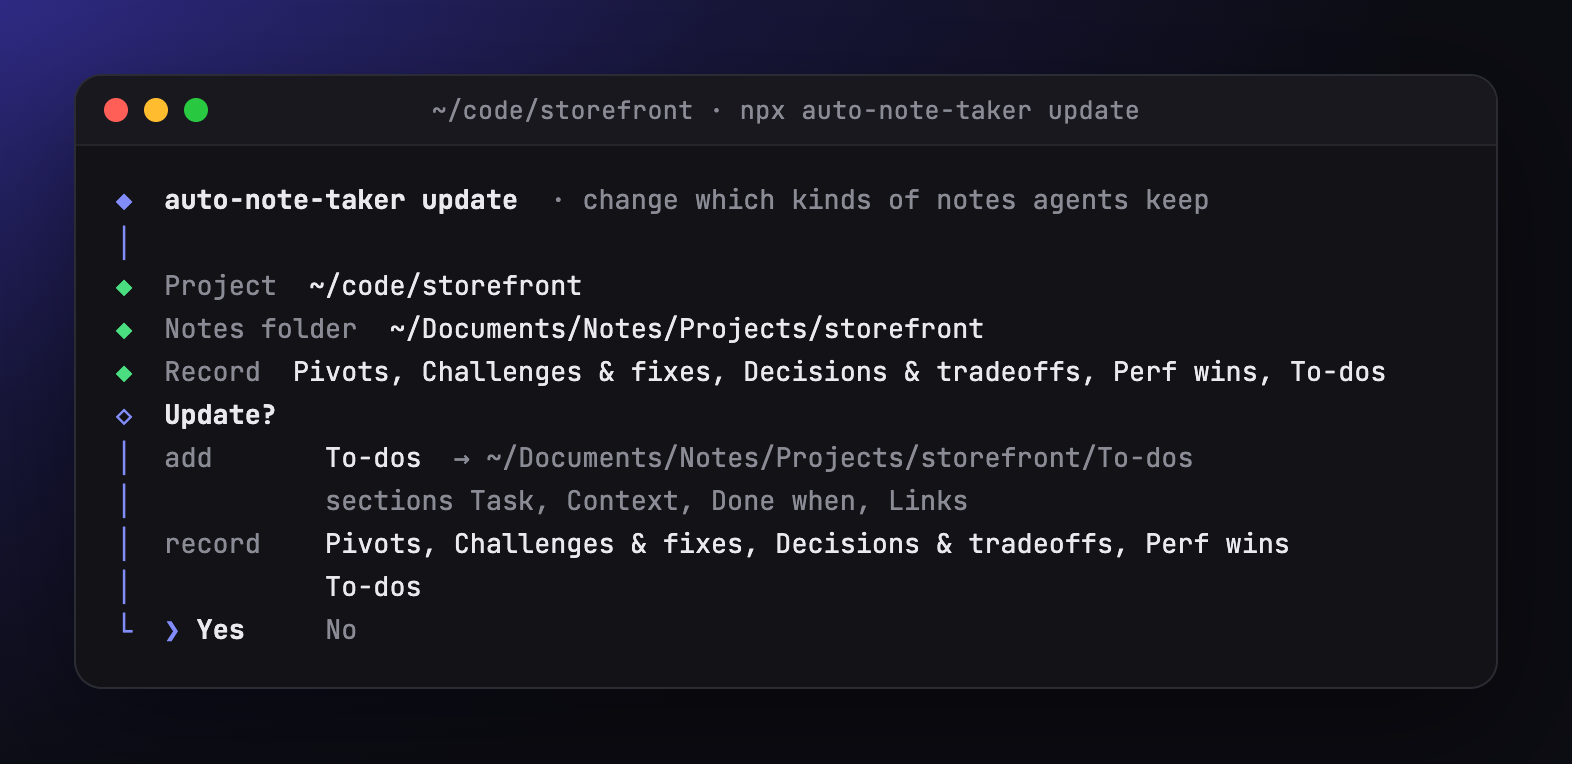
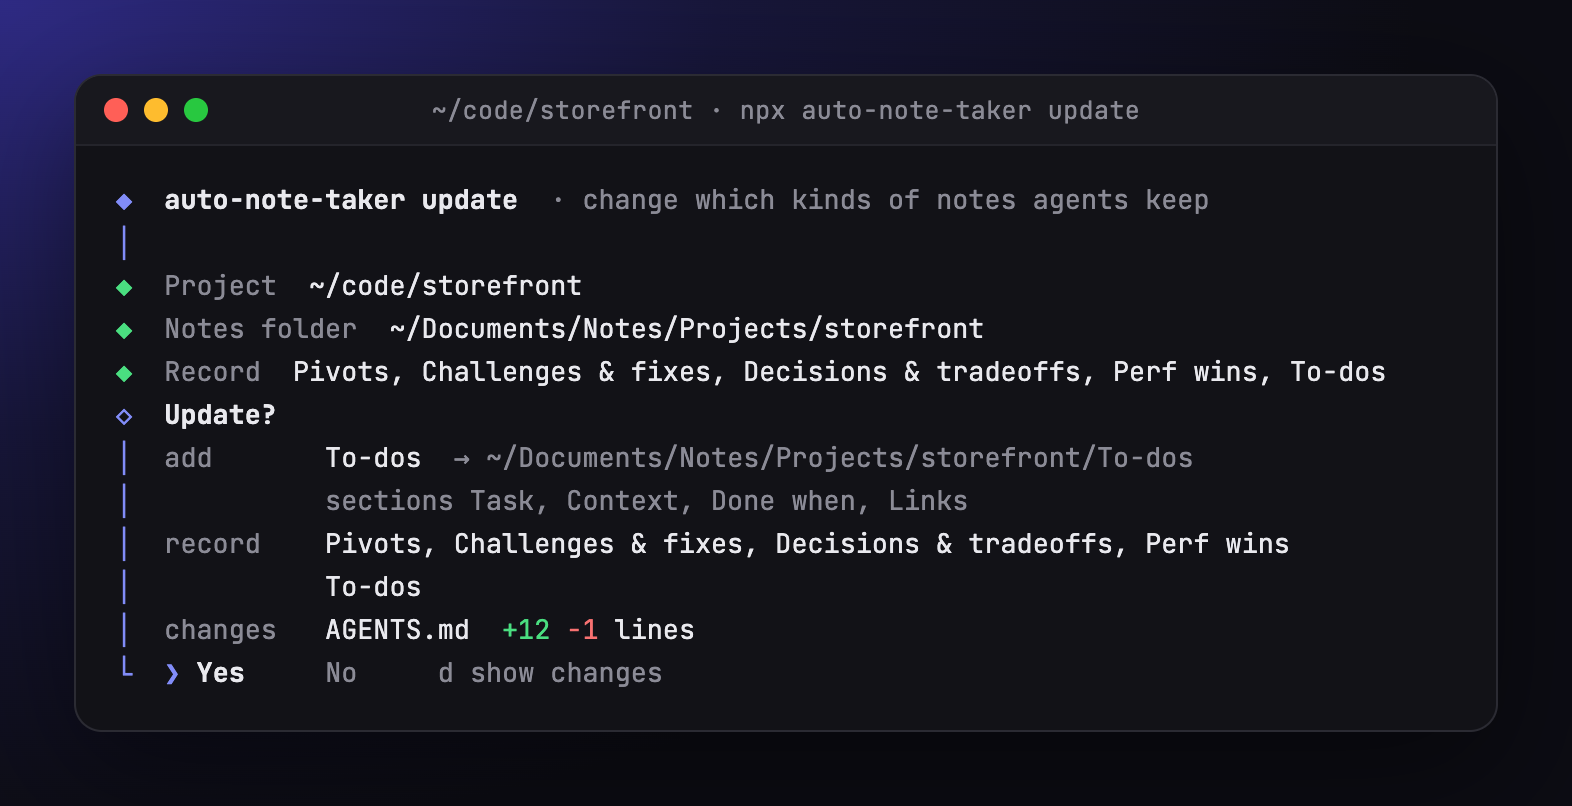
Show the AGENTS.md diff of every install and update
The confirm screens size the change and open a scrolling, wrapping diff
on d before anything is written. Runs without prompts print the diff
after their summary, plain when piped, and --check prints the diff an
install would make. Blocks of added or removed lines slide to blank-line
boundaries, so a new section reads as one block.

diff --git a/docs/make-screenshots.py b/docs/make-screenshots.py
@@ -13,7 +13,7 @@ import pyte
 
 REPO = Path(__file__).resolve().parents[1]
 OUT = Path(sys.argv[1]) if len(sys.argv) > 1 else REPO / "docs/images"
-HERE = Path(tempfile.mkdtemp(prefix="ant-shots-")).resolve()  # macOS: /var is /private/var, and the project path must sit under HOME
+HERE = Path(tempfile.mkdtemp(prefix="ant-", dir="/tmp")).resolve()  # short, so paths in the review diff stay readable; resolved, since macOS /tmp is /private/tmp and the project must sit under HOME
 OUT.mkdir(parents=True, exist_ok=True)
 COLS, ROWS = 84, 40
 CHROME = os.environ.get("CHROME") or next((c for c in ["/Applications/Google Chrome.app/Contents/MacOS/Google Chrome", shutil.which("google-chrome") or "", shutil.which("chromium") or ""] if c and Path(c).exists()), "google-chrome")
@@ -181,6 +181,9 @@ send("enter")
 send(*"keep To-dos/To-dos.md as a summary page linking every to-do"); send("enter")
 send("enter")
 shoot("wizard-update", "npx auto-note-taker update")
+send("d", "end")                                # review the AGENTS.md diff at the new kind's section, then back
+shoot("wizard-review", "npx auto-note-taker update")
+send("enter")
 send("enter")
 pump(1.0)
 shoot("wizard-update-done", "npx auto-note-taker update")

diff --git a/README.md b/README.md
@@ -22,6 +22,7 @@ The instructions are a plain prompt, not a skill or plugin, so any agent that re
 - [Install step by step](#install-step-by-step)
 - [Install without prompts](#install-without-prompts)
 - [Add or remove kinds later](#add-or-remove-kinds-later)
+- [Review the diff](#review-the-diff)
 - [What agents record](#what-agents-record)
 - [What a note looks like](#what-a-note-looks-like)
 - [Obsidian styling and dashboard](#obsidian-styling-and-dashboard)
@@ -172,9 +173,11 @@ Choose **No** to keep the vault untouched; notes still render with stock Obsidia
 
 ### 8. Confirm
 
-![The Install? screen: the instructions file, the notes folder, the four kinds to record with their folders, and the five exclusions wrapped over two lines](docs/images/wizard-confirm.png)
+![The Install? screen: the instructions file, the notes folder, the four kinds to record with their folders, the five exclusions wrapped over two lines, and the change to AGENTS.md as +126 lines](docs/images/wizard-confirm.png)
 
 The last screen shows the instructions file, whether the block will be created, added or updated, the notes folder, the kinds to record with their folders, and what will never be recorded.
+The **changes** row sizes the edit to `AGENTS.md` in lines added and removed.
+Press `d` to read the exact diff before deciding (see [Review the diff](#review-the-diff)).
 Nothing is written before you choose **Yes**.
 `Esc` goes back a step at a time, keeping what you ticked.
 
@@ -182,7 +185,7 @@ Nothing is written before you choose **Yes**.
 
 ![The finished install, listing every file written and the same install as a command, with --record, --add-kind, --skip and --add-skip flags](docs/images/wizard-done.png)
 
-The wizard lists every file it wrote and prints the same install as a command, with your kinds and exclusions as flags, that you can paste into a script, a README or another machine.
+The wizard lists every file it wrote, with the lines added and removed in `AGENTS.md`, and prints the same install as a command, with your kinds and exclusions as flags, that you can paste into a script, a README or another machine.
 Paths under your home folder print as `"$HOME/…"` so the command works for teammates too.
 
 ## Install without prompts
@@ -226,8 +229,12 @@ npx --yes github:andyqioe/auto-note-taker#COMMIT_SHA --project . --yes
 | `--no-obsidian-extras` | Never offer or install them. |
 | `--headless` | Let agents write notes without asking. By default the block tells agents to ask a Yes/No question before each note, and to write nothing when no one can answer. It is never remembered: pass it on every run that should stay headless, `--check` included. |
 | `--yes`, `-y` | Do not prompt; use defaults for anything not given. |
-| `--check` | Report whether the block is current, without writing. |
+| `--check` | Report whether the block is current, without writing; when it is not, print the diff an install would make. |
 | `--help`, `-h` | Print usage. |
+
+Each run that changes `AGENTS.md` prints the change as a unified diff after its summary, so a log shows exactly what was written.
+A run that changes nothing prints no diff.
+On a terminal the diff is colored; in a pipe or a CI log it is plain text.
 
 Exit codes: `0` on success (and for `--check` when the block is current), `1` on an error or an out-of-date `--check`, `130` when you quit the wizard with `Ctrl+C`.
 
@@ -285,7 +292,8 @@ Press `Esc` on any question to go back to the checklist without adding it.
 
 ![The confirmation: To-dos will be added with its folder and sections, followed by the full list of kinds that will be recorded, and Yes selected](docs/images/wizard-update.png)
 
-The last screen lists what changes: each kind to **add** with its folder and sections, each kind to **remove**, and the full list you will **record** afterwards.
+The last screen lists what changes: each kind to **add** with its folder and sections, each kind to **remove**, the full list you will **record** afterwards, and the size of the edit to `AGENTS.md`.
+Press `d` to read the exact diff first (see [Review the diff](#review-the-diff)).
 Choose **Yes** to write it, or **No** to leave everything as it was.
 If nothing changed, the wizard says so and writes nothing.
 
@@ -293,7 +301,7 @@ If nothing changed, the wizard says so and writes nothing.
 
 ![The finished update: the AGENTS.md block and the Obsidian dashboard updated, and the same update printed as one command](docs/images/wizard-update-done.png)
 
-The wizard updates the block in `AGENTS.md`.
+The wizard updates the block in `AGENTS.md` and shows how many lines it added and removed.
 If the notes folder has the Obsidian dashboard, it updates that too, so each new kind gets its own view.
 It finishes by printing the same update as a command, which you can save or rerun in another project.
 
@@ -319,12 +327,48 @@ npx --yes github:andyqioe/auto-note-taker update \
 npx --yes github:andyqioe/auto-note-taker update --remove-kind pivots
 ```
 
-`update` prints what it did:
+`update` prints what it did, then the diff of `AGENTS.md`:
 
 ```text
 Updated: /Users/you/code/storefront/AGENTS.md
 Added: To-dos (Agent Notes/To-dos)
 Recording: Pivots, Challenges & fixes, To-dos
+```
+
+```diff
+--- AGENTS.md
++++ AGENTS.md
+@@ -1,5 +1,5 @@
+ <!-- BEGIN tactical-direction-context -->
+-<!-- auto-note-taker: {"notesDir":"Agent Notes","record":["pivots","challenges"],"skip":["routine","trivial-fixes","agent-mechanics","personal"],"customKinds":[],"customSkips":[],"folders":{}} -->
++<!-- auto-note-taker: {"notesDir":"Agent Notes","record":["pivots","challenges"],"skip":["routine","trivial-fixes","agent-mechanics","personal"],"customKinds":[{"name":"To-dos","when":"the user says \"add X to todo\"","sections":["Task","Context","Done when","Links"]}],"customSkips":[],"folders":{}} -->
+ ## Agent notes
+ 
+ Record the moments listed under "Record" as notes in `Agent Notes` at project scope, each kind in its own folder.
+@@ -19,6 +19,7 @@
+ 
+ - **Pivots** (`Agent Notes/Pivots`): Each time the approach of record changes partway through the work.
+ - **Challenges & fixes** (`Agent Notes/Challenges`): A problem that took real effort to solve, with why the fix works.
++- **To-dos** (`Agent Notes/To-dos`): The user says "add X to todo".
+ 
+ ### Do not record
+ 
+@@ -49,6 +50,15 @@
+ - Status and banner: `resolved` (`success`, states the cause and the fix in one or two sentences), `workaround` (`warning`, says what the real fix would be and why it was not done), `open` (`question`, says what blocks it).
+ - When the problem made the work change course, also record the pivot (if pivots are recorded) and link both notes.
+ 
++### To-dos
++
++Record a "To-dos" note in `Agent Notes/To-dos` when: the user says "add X to todo"
++The user defined this kind in their own words; follow that definition as written and do not stretch it to cover moments the other kinds already handle.
++
++- Tag: `to-dos`.
++- Sections, in order: `## 1. Task`, `## 2. Context`, `## 3. Done when`, `## 4. Links`.
++- Status and banner: `current` (`info`, states the point of the note in one or two sentences), `superseded` (`failure`, links the newer note).
++
+ ### Filenames
+ 
+ - Filename: `[Category]-[Sub-category]-[Sub-sub-category].md`, for example `proxy-session-stateHandling.md`. The user's explicit naming convention takes precedence over generic filename style rules for these notes.
 ```
 
 Running the same command again prints `Already current:` and changes nothing.
@@ -362,6 +406,29 @@ npx --yes github:andyqioe/auto-note-taker update \
   --remove-kind 'To-dos - create a summary page listing every to-do' \
   --add-kind 'To-dos=the user says "add X to todo"' \
   --kind-details 'keep To-dos/To-dos.md as a summary page listing every to-do with its status and a link to its note'
+```
+
+## Review the diff
+
+Every run shows what it changes in `AGENTS.md` (or the file it links to, such as `CLAUDE.md`), so nothing lands in your instructions unseen.
+
+**In the wizards.** The confirm screen of the install and of `update` has a **changes** row with the lines added and removed.
+Press `d` there to open the diff:
+
+![The diff review for an update: the new To-dos section shown in green as one block, between unchanged lines, with the scroll keys at the bottom](docs/images/wizard-review.png)
+
+Added lines are green and removed lines red, with three unchanged lines around each change and an `@@` line saying where it is.
+Long lines wrap rather than being cut off, so a change at the end of a line stays visible.
+Scroll with `↑` and `↓`, page with `Space` and `b`, and press `Enter` (or `Esc`) to go back to the question.
+Nothing is written until you answer **Yes**.
+
+**Without prompts.** The installer and `update` print the same diff after their summary, as in the [example above](#update-without-prompts).
+
+**Before running.** `--check` prints the diff an install would make, without writing anything.
+Pass the flags you plan to use to preview their effect:
+
+```sh
+npx --yes github:andyqioe/auto-note-taker --project . --check --record decisions,gotchas
 ```
 
 ## What agents record
@@ -495,6 +562,7 @@ Tick more kinds to add them: each new kind gets a subfolder of the existing note
 The old `Tactical Direction.base` dashboard is left as it was; the new one is `Agent Notes.base`.
 
 **Check.** `--check` exits `0` when the block matches this version and `1` when it is missing or out of date, without writing anything.
+When it is out of date, it also prints the diff an install would make.
 Use it in CI to catch projects that need a refresh:
 
 ```sh
@@ -530,6 +598,7 @@ docs/make-screenshots.py             regenerates the wizard screenshots
 docs/make-note-screenshots.mjs       regenerates the Obsidian note screenshots from docs/demo-notes/
 docs/demo-notes/                     the sample notes those screenshots show
 lib/install.mjs                      renders, plans and writes the managed block, and reads back its saved choice
+lib/diff.mjs                         the line diff every run shows of AGENTS.md
 lib/kinds.mjs                        the note kinds and exclusions, and selection validation
 lib/obsidian.mjs                     vault discovery, snippet, and the dashboard generated from the chosen kinds
 lib/ui.mjs                           dependency-free terminal prompts, including the checklist
